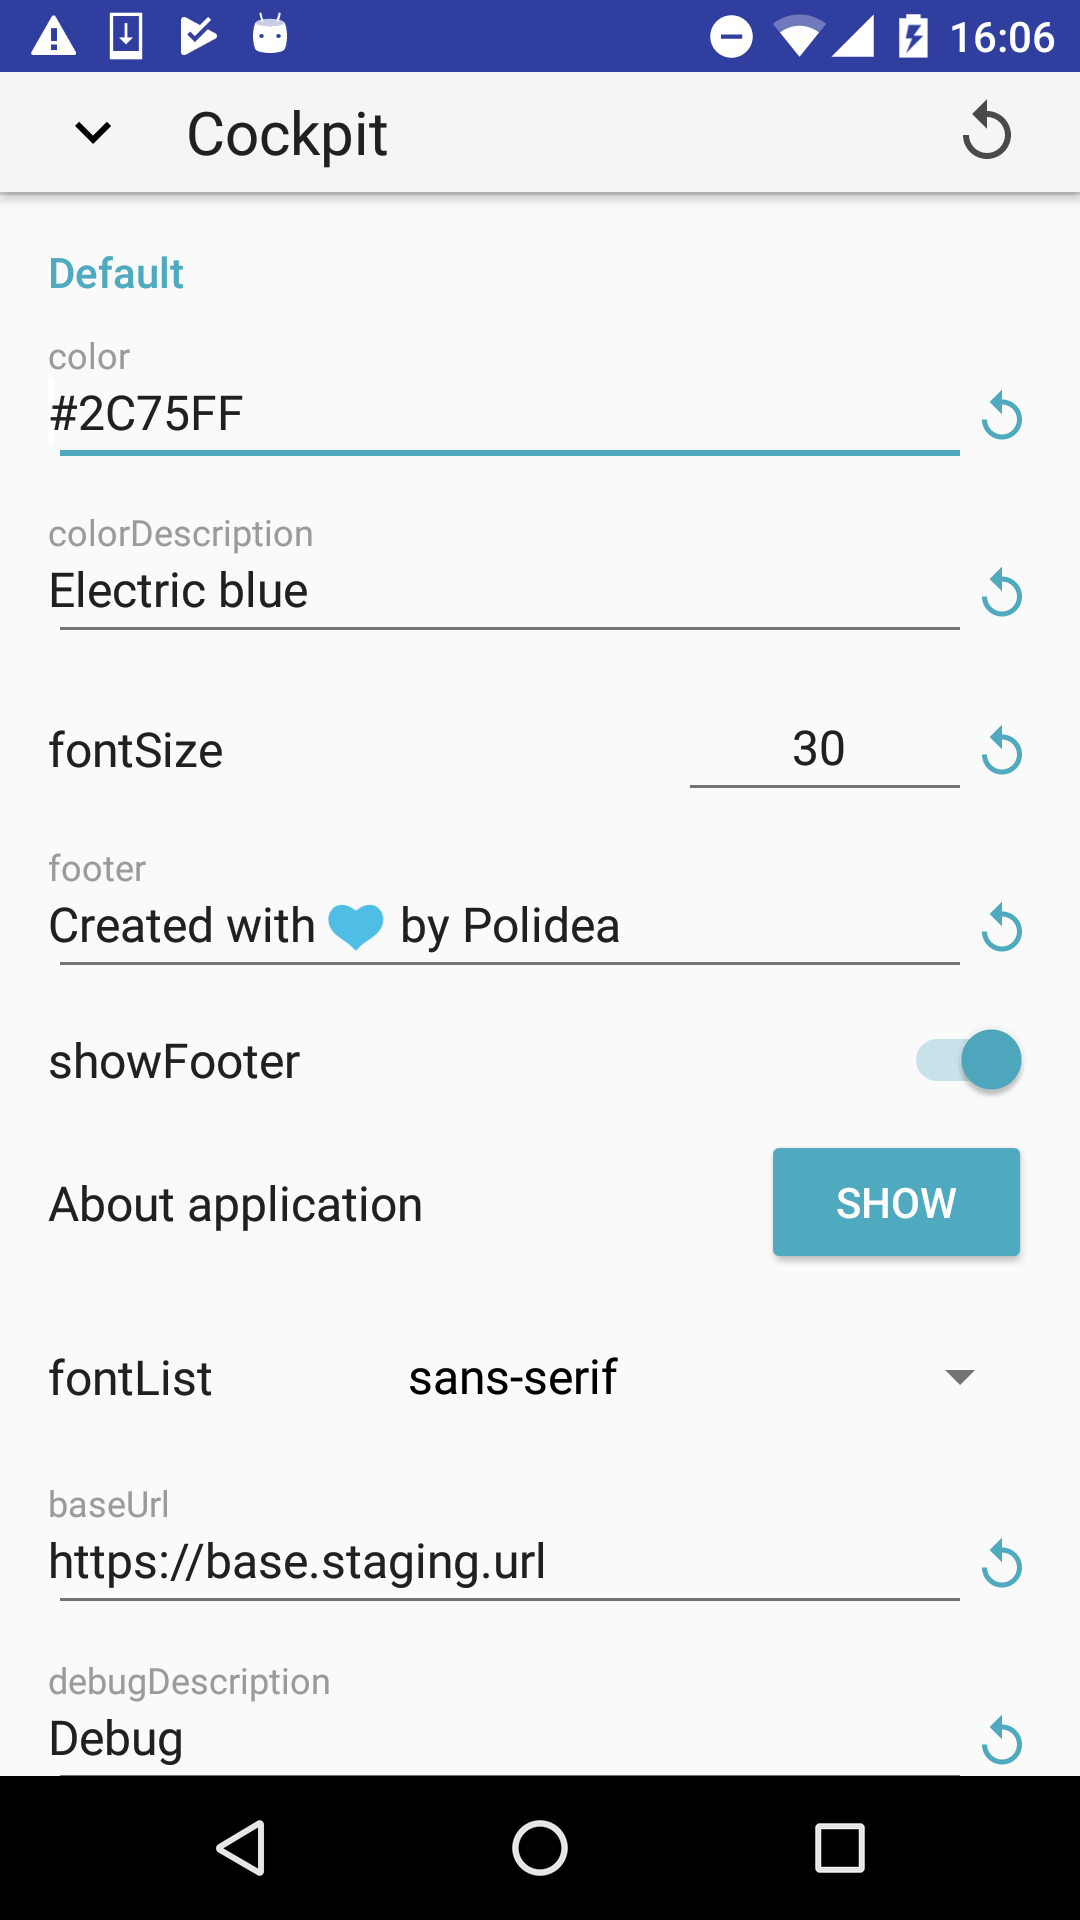
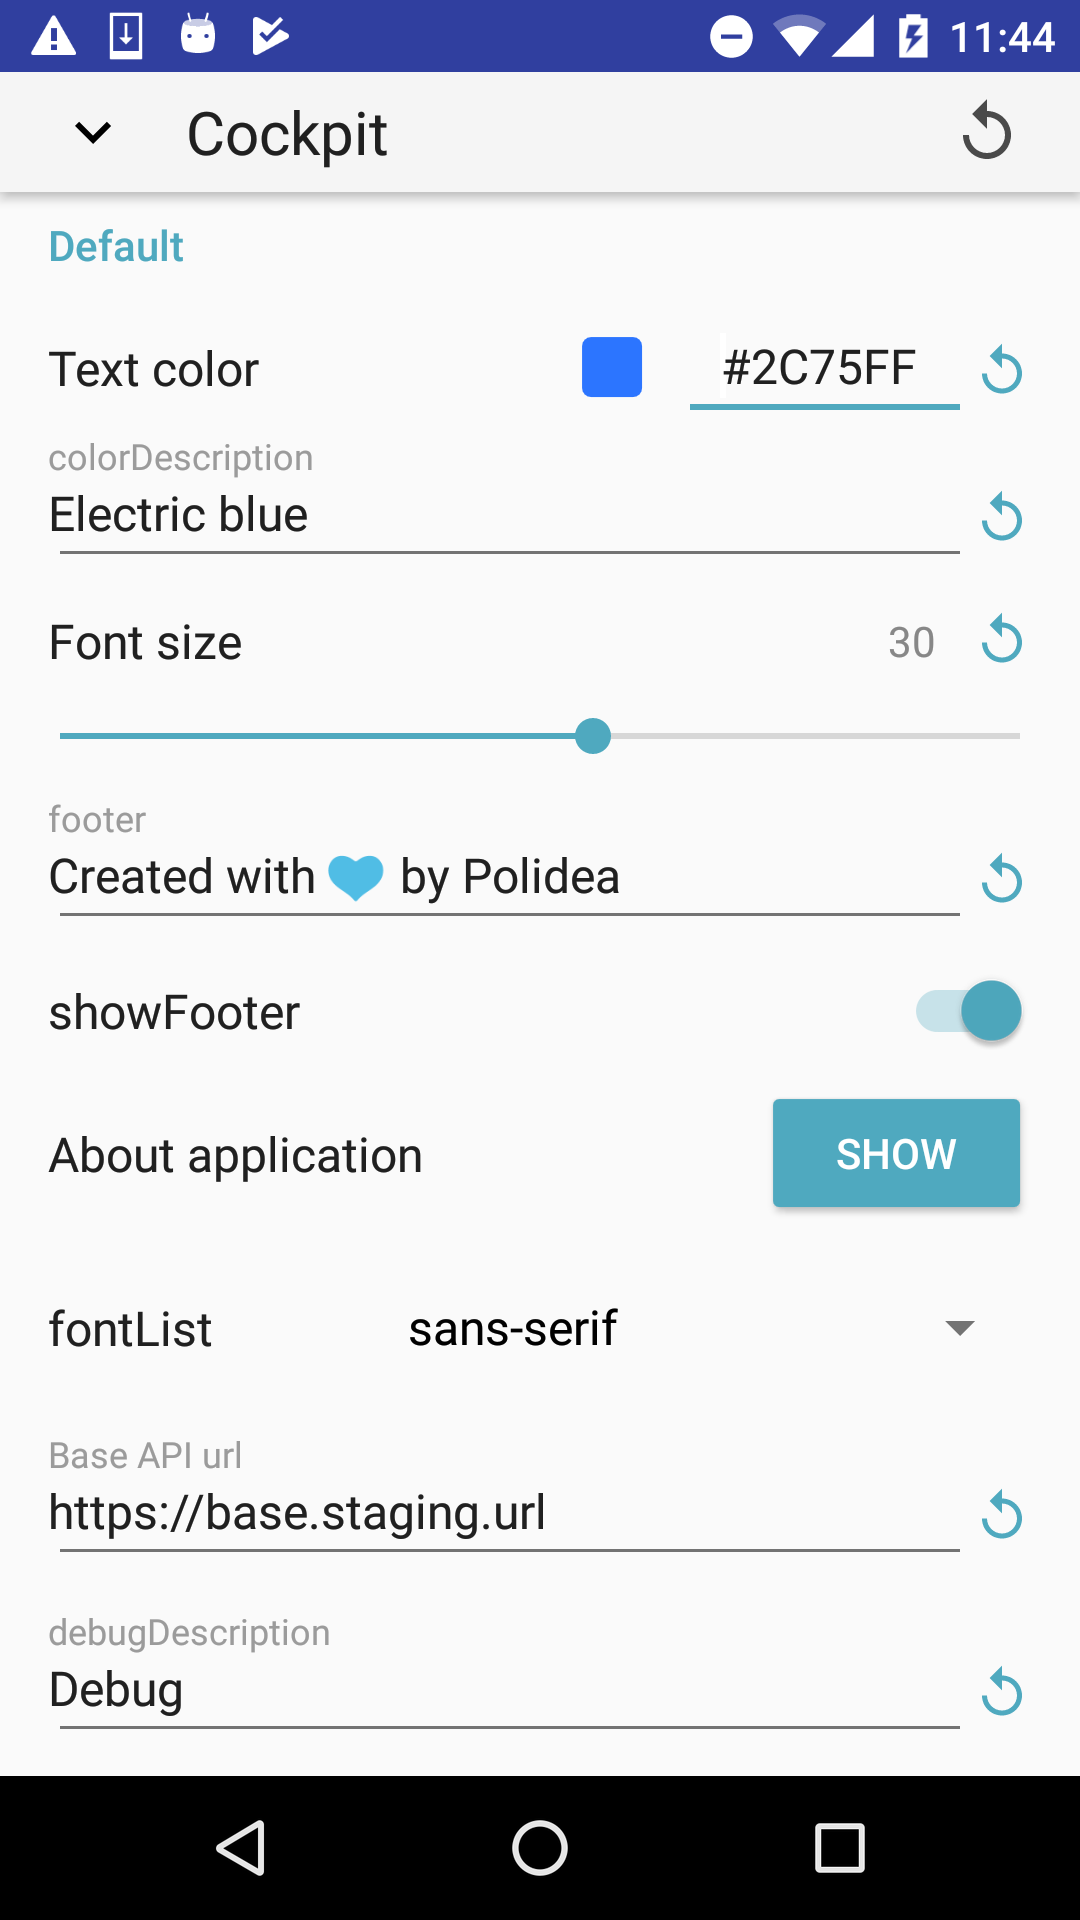
Readme update

diff --git a/README.md b/README.md
@@ -12,7 +12,7 @@ It consists of three parts:
 - Android library containing classes to manage and display those params,  
 - CockpitCore module containing classes common for plugin and the library.
 
-<img src="https://github.com/Polidea/Cockpit/blob/master/images/cockpit-2.gif" width="270" height="480">
+<img src="https://github.com/Polidea/Cockpit/blob/development/images/cockpit-2.1.gif" width="270" height="480">
 
 Each defined value is called `param`. The set of params is called `cockpit`.
 
@@ -33,9 +33,9 @@ showDescription: true
 After you've built your project, `Cockpit.java` file will get generated for you. You can use it like any other code in your project.
 
 <p float="left">
-    <img src="https://github.com/Polidea/Cockpit/blob/master/images/cockpit-full.png" width="216" height="384" />
-    <img src="https://github.com/Polidea/Cockpit/blob/master/images/cockpit-half.png" width="216" height="384" />
-    <img src="https://github.com/Polidea/Cockpit/blob/master/images/cockpit-list.png" width="216" height="384" />
+    <img src="https://github.com/Polidea/Cockpit/blob/development/images/cockpit-full.png" width="216" height="384" />
+    <img src="https://github.com/Polidea/Cockpit/blob/development/images/cockpit-half.png" width="216" height="384" />
+    <img src="https://github.com/Polidea/Cockpit/blob/development/images/cockpit-list.png" width="216" height="384" />
 </p>
 
 ### Documentation
@@ -52,41 +52,63 @@ cockpitStaging.yml
 cockpitStagingDebug.yml
 ```
 
-For basic functionality you can use simple, flat yaml structure:
+For basic functionality you can use simple, flat yaml structure, for example:
 ```
-paramName1: paramValue1
-listSimpleTypeName: [ "staging", "testing", "prod" ]
-
+text: "example"
+endpointList: [ "staging", "testing", "prod" ]
+fontSize: 18
+showDialog: true
 ```
 
 If you need some more attributes or want to use action param, you can use more complex structure. Currently Cockpit debug panel supports following param types:
 ##### primitives (integer, double, string, boolean)
 
 ```
-paramName2:
-  description: "paramName2 description" # this field is optional; if provided, it's used for display instead of param name
-  value: paramValue2
+fontSize:
+  description: "Header font size" # this field is optional; if provided, it's used for display instead of param name
+  value: 18
 ```
 
 ##### action
 ```
-actionTypeName:
+showDialog:
   type: action
-  description: "Action description"
+  description: "Show dialog" # optional
   buttonText: "Perform" # this value is optional
 ```
 
 ##### list
 ```
-listComplexTypeName:
+endpointList:
   type: list
   values: [ "staging", "testing", "prod" ]
   selectedItemIndex: 1 # this field is optional; if not provided, 0 is assumed
 ```
 
+##### range slider
+```
+lengthSlider:
+  type: range
+  min: 0
+  max: 32
+  value: 8 # optional; if not provided, min is assumed
+  step: 0.1 # optional; if not provided, 1 is assumed
+  description: "Length" # optional
+```
+
+#### color
+```
+fontColor:
+  type: color
+  description: "Font color" # optional
+  value: "#223344" # supported color formats are #AARRGGBB and #RRGGBB
+```
+
 > Supported param types are integer, double, string, boolean, list and action. All items inside a list have to be the same type.
 
 > Please note that param names are case-sensitive and have to be unique.
+
+> You can create **groups of params** and name them. To define a group, you need to use extended structure of a param and add "group" field. All parameters without defined groups will be listed as part of "Default" group.
 
 #### Generating Cockpit
 
@@ -157,6 +179,12 @@ dependencies {
     debugImplementation 'com.polidea.cockpit:cockpit:2.0.0'  
 }
 ```
+
+## Building sample app
+When you attempt to build the sample project for the first time, you're most likely to encounter `plugin not found` error. That's because sample app uses local build of the plugin. To fix the problem:
+- on MacOS/Linux run `./pluginAndCore.sh -b` from your project and then build sample app,
+- on Windows build CockpitCore, CockpitPlugin and, at last, sample app.
+
 ## Integration ideas
 When it comes to library integration with your app, it really depends on what is available in your particular case. We think it's a nice idea to use Seismic library by Square (https://github.com/square/seismic) and launch Cockpit panel on shake:
 ```kotlin
@@ -191,17 +219,13 @@ Another simple idea is to launch Cockpit debug panel on button click or on speci
 
 No matter which way you choose, to display Cockpit, you just have to call `Cockpit#showCockpit(FragmentManager fragmentManager)` method.
 ## Troubleshooting
-When you attempt to build the sample project for the first time, you're most likely to encounter `plugin not found` error. That's because sample app uses local build of the plugin. To fix the problem:
-- on MacOS/Linux run `./pluginAndCore.sh -b` from your project and then build sample app,
-- on Windows build CockpitCore, CockpitPlugin and, at last, sample app.
-
-Another known issue is configuration on demand error:
+You may come across following error:
 ```
 org.gradle.api.tasks.StopExecutionException: Configuration on demand is not supported by the current version of the Android Gradle plugin since you are using Gradle version 4.6 or above.
 Suggestion: disable configuration on demand by setting org.gradle.configureondemand=false in your gradle.properties file or use a Gradle version less than 4.6.
 ```
 
-Go get it to work, you need to disable configuration on demand in your Android Studio's settings (`Build, Execution, Deployment` -> `Compiler`, uncheck `configure on demand` option).
+To get it to work, you need to disable configuration on demand in your Android Studio's settings (`Build, Execution, Deployment` -> `Compiler`, uncheck `configure on demand` option).
        
 ## License
 ```
